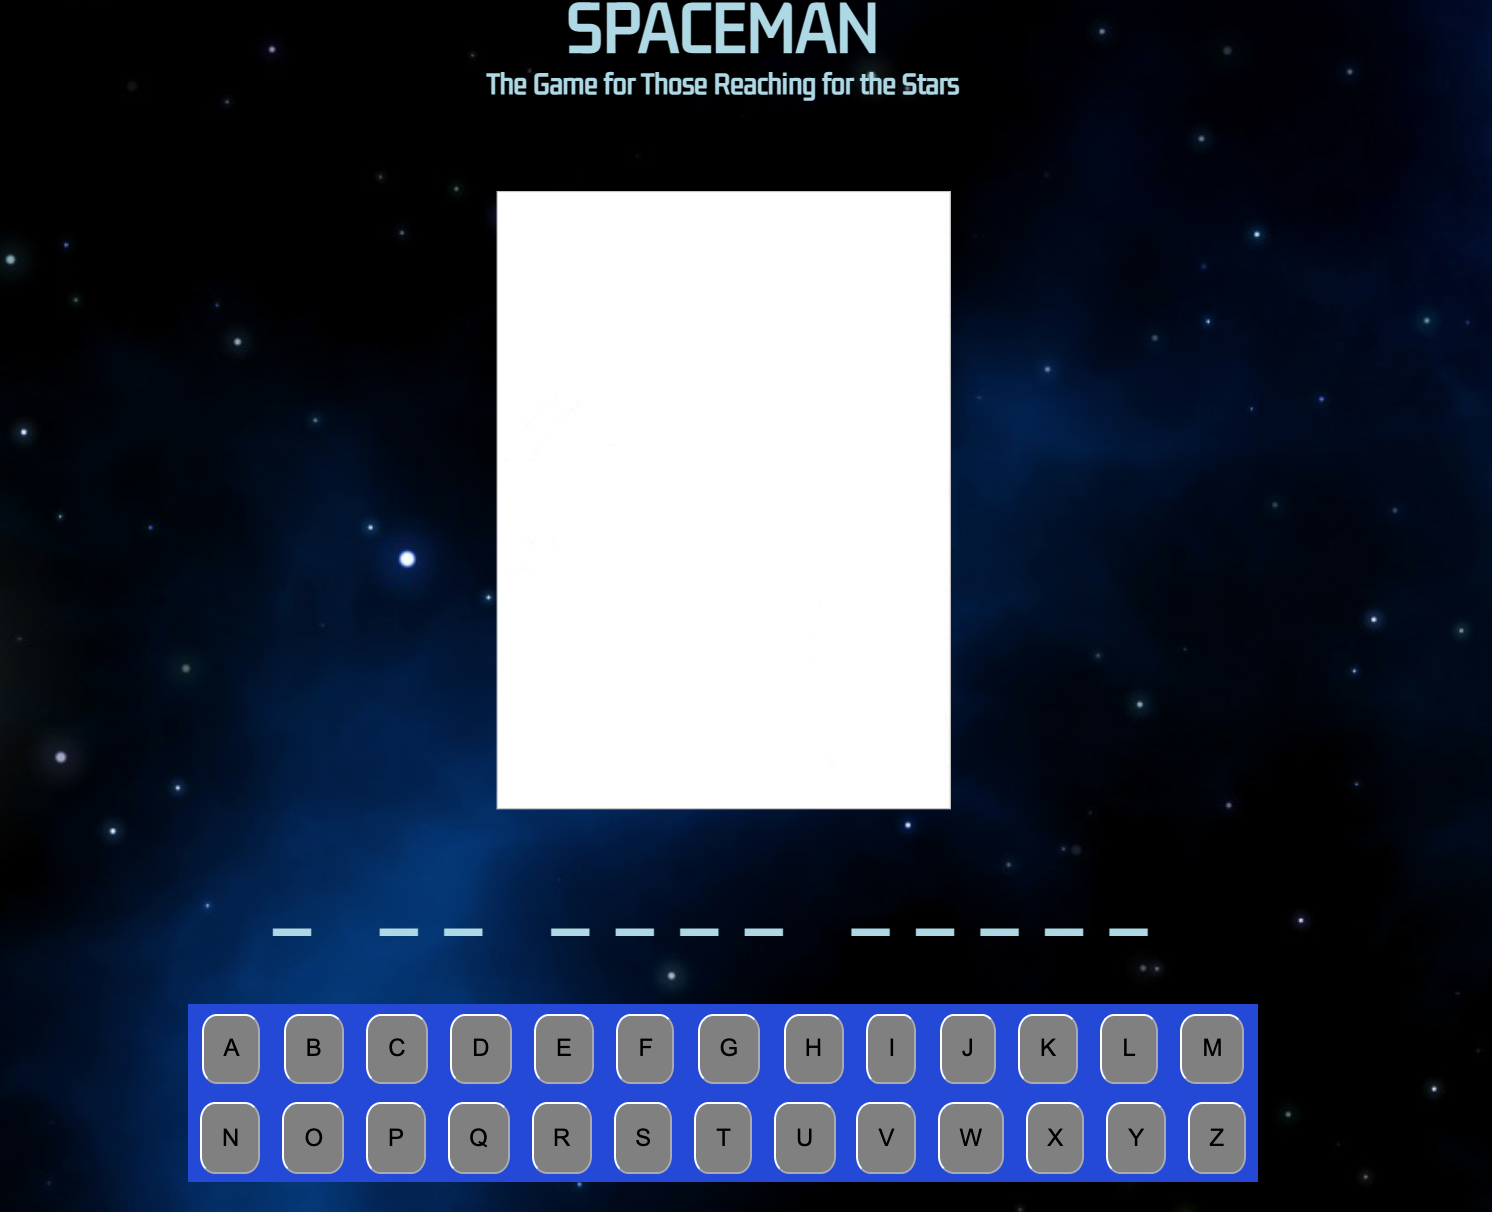
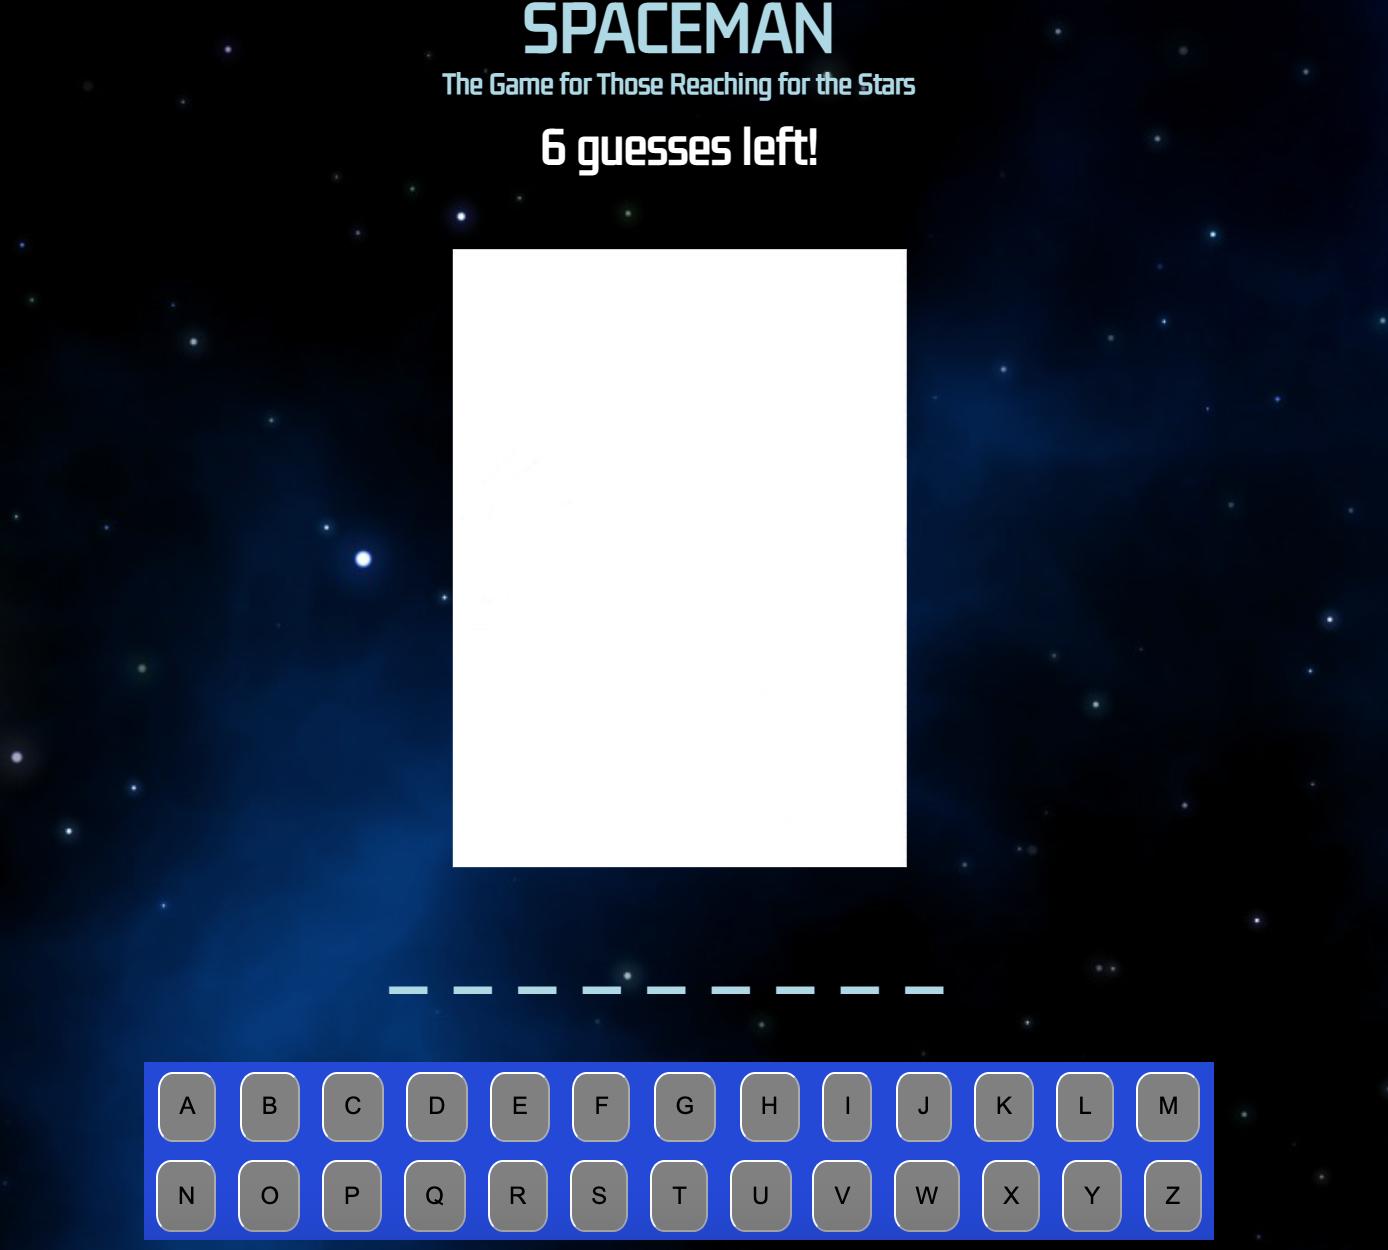
Fully Playable Spaceman Game with Sounds, Messages & Secret Word Unveil

diff --git a/js/main.js b/js/main.js
@@ -4,13 +4,9 @@ const words = ['THE BIRD IS THE WORD', 'TOP OF THE MORNING', 'I AM ONLY HUMAN', 
 'EYE OF SAURON', 'ROCKETMAN', 'TRIANGULUM GALAXY', 'SCORPIUS', 'MERCURY', 'APOLLO THIRTEEN', 
 'MAE JEMISON', 'YVONNE CAGLE', 'NEIL ARMSTRONG', 'STRAIGHT TO THE MOON', 'IF YOU ARE READING THIS GREAT JOB', 
 'SHOOT FOR THE STARS', 'AIM FOR THE MOON', 'EXTRA TERRESTRIAL', 'WE ARE NOT ALONE', 'STAY UP AND STAY POSITIVE', 
-'YOU ARE DOING GREAT'];
+'YOU ARE DOING GREAT', 'GUARDIANS OF THE GALAXY', 'AVENGERS ASSEMBLE'];
 const MAX_WRONG_GUESSES = 6;
 const SPRITE_WIDTH = 504;
-// const sounds = {
-//   laser: 'https://freesound.org/s/376694/',
-//   asteroid: 'https://freesound.org/s/565846/',
-// };
 
 /*----- app's state (variables) -----*/
 let secretWord;
@@ -24,24 +20,16 @@ const msgEl = document.querySelector('h2');
 const replayEl = document.getElementById('replay');
 let astroPic = document.getElementById('astro');
 const guessEl = document.getElementById('guess');
-// const player = new Audio();
+const laserPlayer = new Audio('http://www.freesound.org/data/previews/42/42106_70164-lq.mp3');
+const sirenPlayer = new Audio('http://www.freesound.org/data/previews/336/336899_4939433-lq.mp3');
+const clickPlayer = new Audio('https://www.fesliyanstudios.com/play-mp3/387');
 
 /*----- event listeners -----*/
-document.querySelector('#ltr')
-  .addEventListener('click', letterClick);
+document.querySelector('#ltr').addEventListener('click', letterClick);
 replayEl.addEventListener('click', init);
-// document.querySelector('button').addEventListener('click', buttonSounds);
 
 
 /*----- functions -----*/
-
-// function buttonSounds(evt) {
-//   const button = evt.target.textContent
-//   if (
-
-//   )
-// }
-
 init();
 
 function init() {
@@ -65,7 +53,6 @@ function letterClick(evt) {
     guessWord.includes(letter)
   ) return;
   if (secretWord.includes(letter)) {
-    // rebuild guessWord so that it includes the letter, possibly in multiple positions
     let newGuessWord = '';
     for (let i = 0; i < secretWord.length; i++) {
       if (secretWord.charAt(i) === letter) {
@@ -79,6 +66,9 @@ function letterClick(evt) {
     wrongLetters += letter;
   }
   winOrLoss = getWinOrLoss();
+  if(winOrLoss === 'L') {
+    guessWord = secretWord;
+  }
   render();
   renderMsg();
 }
@@ -89,8 +79,10 @@ function render() {
   letterEls.forEach((btn) => {
     if (guessWord.includes(btn.innerText)) {
       btn.style.backgroundColor = 'green';
+      clickPlayer.play();
     } else if (wrongLetters.includes(btn.innerText)) {
       btn.style.backgroundColor = 'red';
+      clickPlayer.play();
     } else {
       btn.style.backgroundColor = 'gray';
     }
@@ -112,19 +104,11 @@ function getWinOrLoss() {
 function renderMsg () {
   if (winOrLoss === 'W') {
     msgEl.innerHTML = `CONGRATULATIONS! YOU'VE WON!`;
-  } else if (wrongLetters.length === 1) {
-    msgEl.innerHTML = '5 guesses left!';
-  } else if (wrongLetters.length === 2) {
-    msgEl.innerHTML = '4 guesses left!';
-  } else if (wrongLetters.length === 3) {
-    msgEl.innerHTML = '3 guesses left!';
-  } else if (wrongLetters.length === 4) {
-    msgEl.innerHTML = '2 guesses left!';
-  } else if (wrongLetters.length === 5) {
-    msgEl.innerHTML = '1 guess left!';
+    laserPlayer.play();
   } else if (winOrLoss === 'L') {
-      msgEl.innerHTML = 'GAME OVER! TRY AGAIN!';
+    msgEl.innerHTML = 'GAME OVER! TRY AGAIN!';
+    sirenPlayer.play();
   } else {
-    msgEl.innerHTML = '';
+    msgEl.innerHTML = `${6 - wrongLetters.length} guesses left!`;
   }
 }

diff --git a/css/main.css b/css/main.css
@@ -3,22 +3,18 @@
 }
 
 body {
-    /* height: 100vh; */
     font-size: 3vmin;
     display: flex;
     flex-direction: column;
     justify-content: center;
     align-items: center;
     background-image: url('https://static.theprint.in/wp-content/uploads/2020/03/minor-planets.jpg');
-    /* background-color: bisque; */
 }
 
 h1 {
     color: lightblue;
     text-align: center;
-    /* font-family: 'Lucida Sans', 'Lucida Sans Regular', 'Lucida Grande', 'Lucida Sans Unicode', Geneva, Verdana, sans-serif; */
     font-family: 'Gemunu Libre', sans-serif;
-    /* padding: -100px; */
     margin-top: -10px;
 }
 
@@ -38,10 +34,10 @@ h5 {
 }
 
 #astro {
-    width: 504px;   /* width of each "frame" of the image */
-    height: 687px;  /* height of the image */
+    width: 504px;
+    height: 687px;
     background-image: url('../imgs/spaceman-filmstrip.jpg');
-    transform: scale(.5);  /* scale the side of the element as desired */
+    transform: scale(.5);
     background-position-x: 504px;
     margin-top: -110px;
   }
@@ -83,9 +79,3 @@ button {
     margin-top: -150px;
     font-family: 'Gemunu Libre', sans-serif;
 }
-
-/* @media only screen and (min-width: 768px) {
-    body {
-        
-    }
-  } */

diff --git a/index.html b/index.html
@@ -12,8 +12,8 @@
 <body>
     <h1>SPACEMAN</h1>
     <h5>The Game for Those Reaching for the Stars</h5>
-    <h2></h2>
-    <img id="astro" src=" ">
+    <h2>&nbsp;</h2>
+    <div id="astro" src=" "></div>
     <h1 id="guess"></h1>
     <div id="ltr">
         <button>A</button>

diff --git a/README.md b/README.md
@@ -3,17 +3,17 @@
 ### __Spaceman__
 The objective of winning Spaceman is to be able to identify the secret word, displayed in underscore spaces in the website window, before the 6 alotted chances to do so have been used.
 
-The player will be able to click on the letter buttons at the bottom of the page to begin guessing any given letter in the word. As each letter guess is either correct or incorrect, the corresponding button will update its background color from gray to green (correct guess) or red (incorrect guess). After the player has guessed a given letter, the letter will not be able to be re-selected.
+The player will be able to click on the letter buttons at the bottom of the page to begin guessing any given letter in the word. As each letter guess is either correct or incorrect, the corresponding button will update its background color from gray to green (correct guess) or red (incorrect guess). After the player has guessed a given letter, the letter will not be able to be re-selected and the game will play a mouse click sound.
 
 Also, as each incorrect guess is given, an image of a "Spaceman" will slowly be unveiled in 6 parts, for each incorrect guess. When the entire "Spaceman" is visible, the player has lost the game and will have the option to replay by clicking the "Replay?" button at the bottom of the page.
 
-As each incorrect guess is given by the player, a message will also display at the top of the page to let them know how many guesses are still available to them. After the given guesses have finished, a message to try again will display, along with the replay button at the bottom of the screen.
+As each incorrect guess is given by the player, a message will also display at the top of the page to let them know how many guesses are still available to them. After the given guesses have finished, a message to try again will display, along with a siren sound and the replay button at the bottom of the screen.
 
-If the player successfully guesses the word before their 6 chances are finished, a message congratulating the player on winning will display at the top of the page, along with the replay button.
+If the player successfully guesses the word before their 6 chances are finished, a message congratulating the player on winning will display at the top of the page, along with a laser blast sound and the replay button.
 
+When the game has finished, whether the player has won or lost, the secret word will be fully unveiled for them to observe as well.
 
 ### __Screenshots__
-<!-- Use Imgur to house screenshots for Spaceman -->
 ![Spaceman Starting Screen](/imgs/spaceman-starting-screen.png)
 ###### This is the starting page for Spaceman
 
@@ -77,9 +77,12 @@ If the player successfully guesses the word before their 6 chances are finished,
   * Letters of the secret word
   * Random process of choosing the current secret word for the player to guess
   * Clicking of the letter buttons to fill in the guessing spaces if the letter is located in the secret guessing word
+  * Mouse click sounds for clicking on the letters
+  * Laser blast sound for the winning message, and siren sound for the losing message
   * Game's replay button when it is finished
   * Color change of the letters for both correct & incorrect guessed letters in the given secret word
   * Messages displayed for how many guesses the player has left, the winning & losing messages
+  * The secret guessing word being unveiled at the conclusion of the game
 
 
 ### __Getting Started__
@@ -88,7 +91,7 @@ Please click into the following website link to check out my Spaceman game:
 
 
 ### __Further Enhancements (Icebox)__
-* Adding audio for buttons, when they are clicked
+* Adding audio, for when the replay button is clicked
 * Creating variables and a function to ensure there is no chance of repeating a random word in the "words" array
 * Adding animation to the "Spaceman" shown on screen
 * Adding a media query for the reformatting of the game window on phones & tablets
